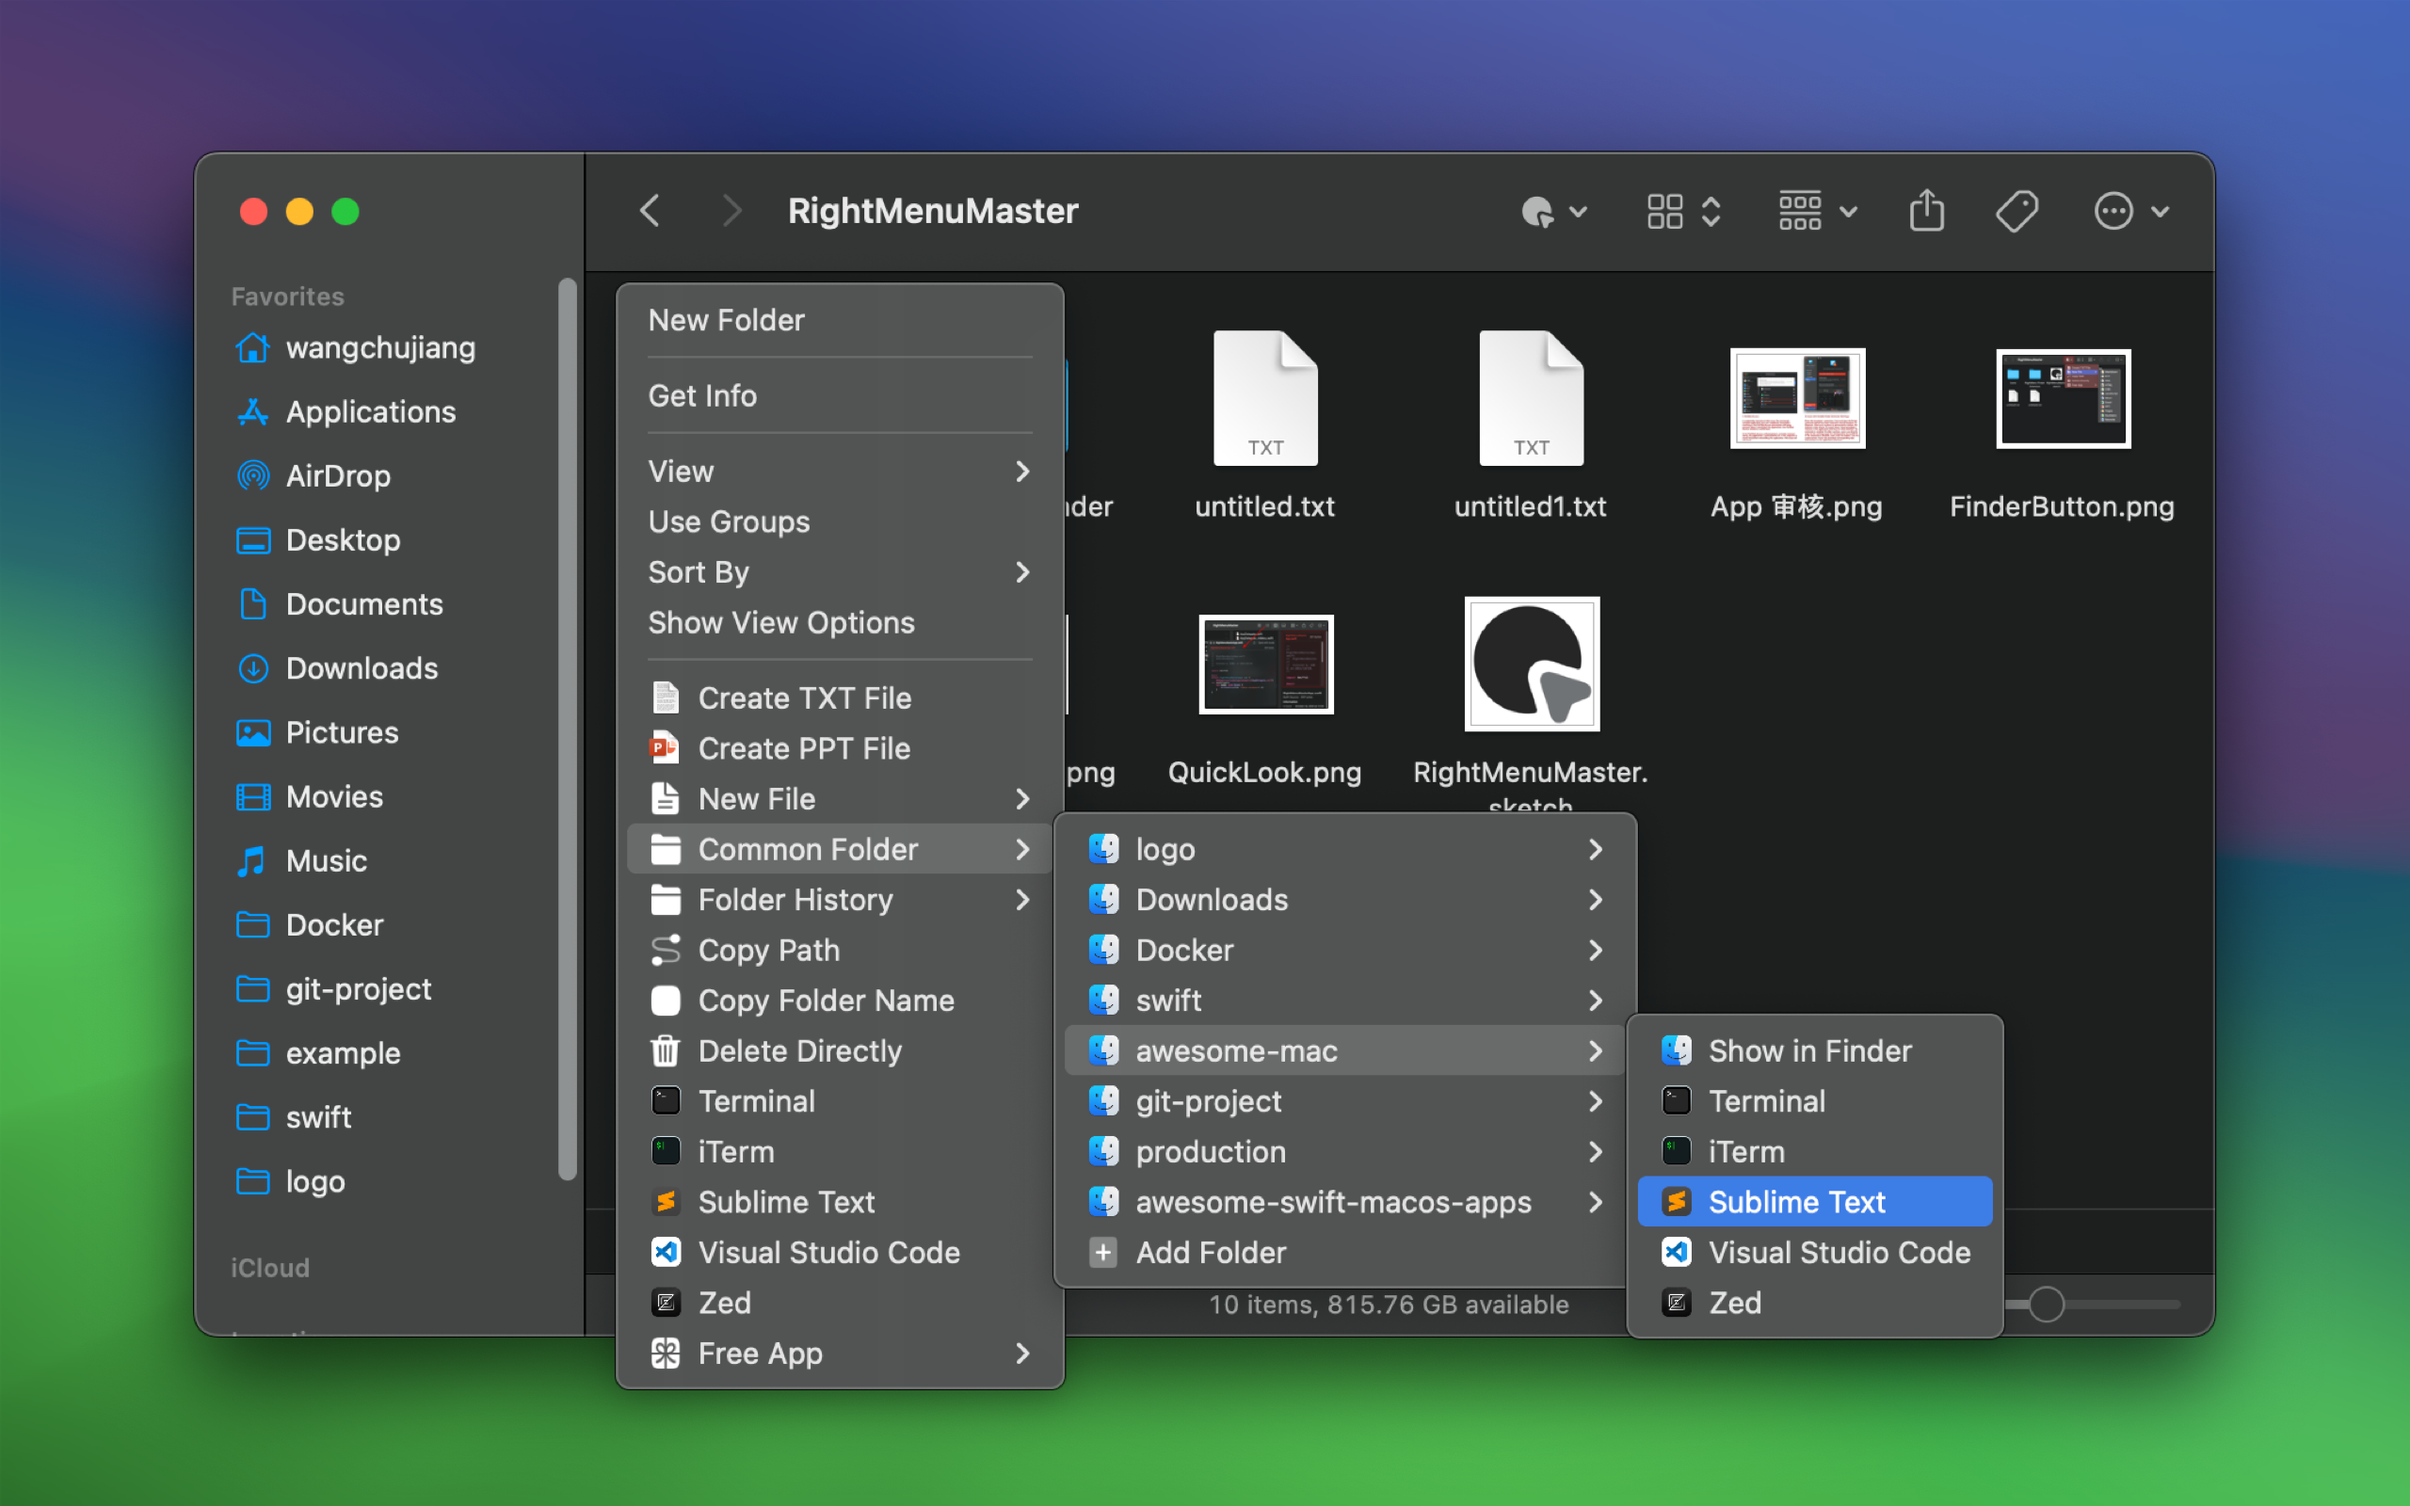
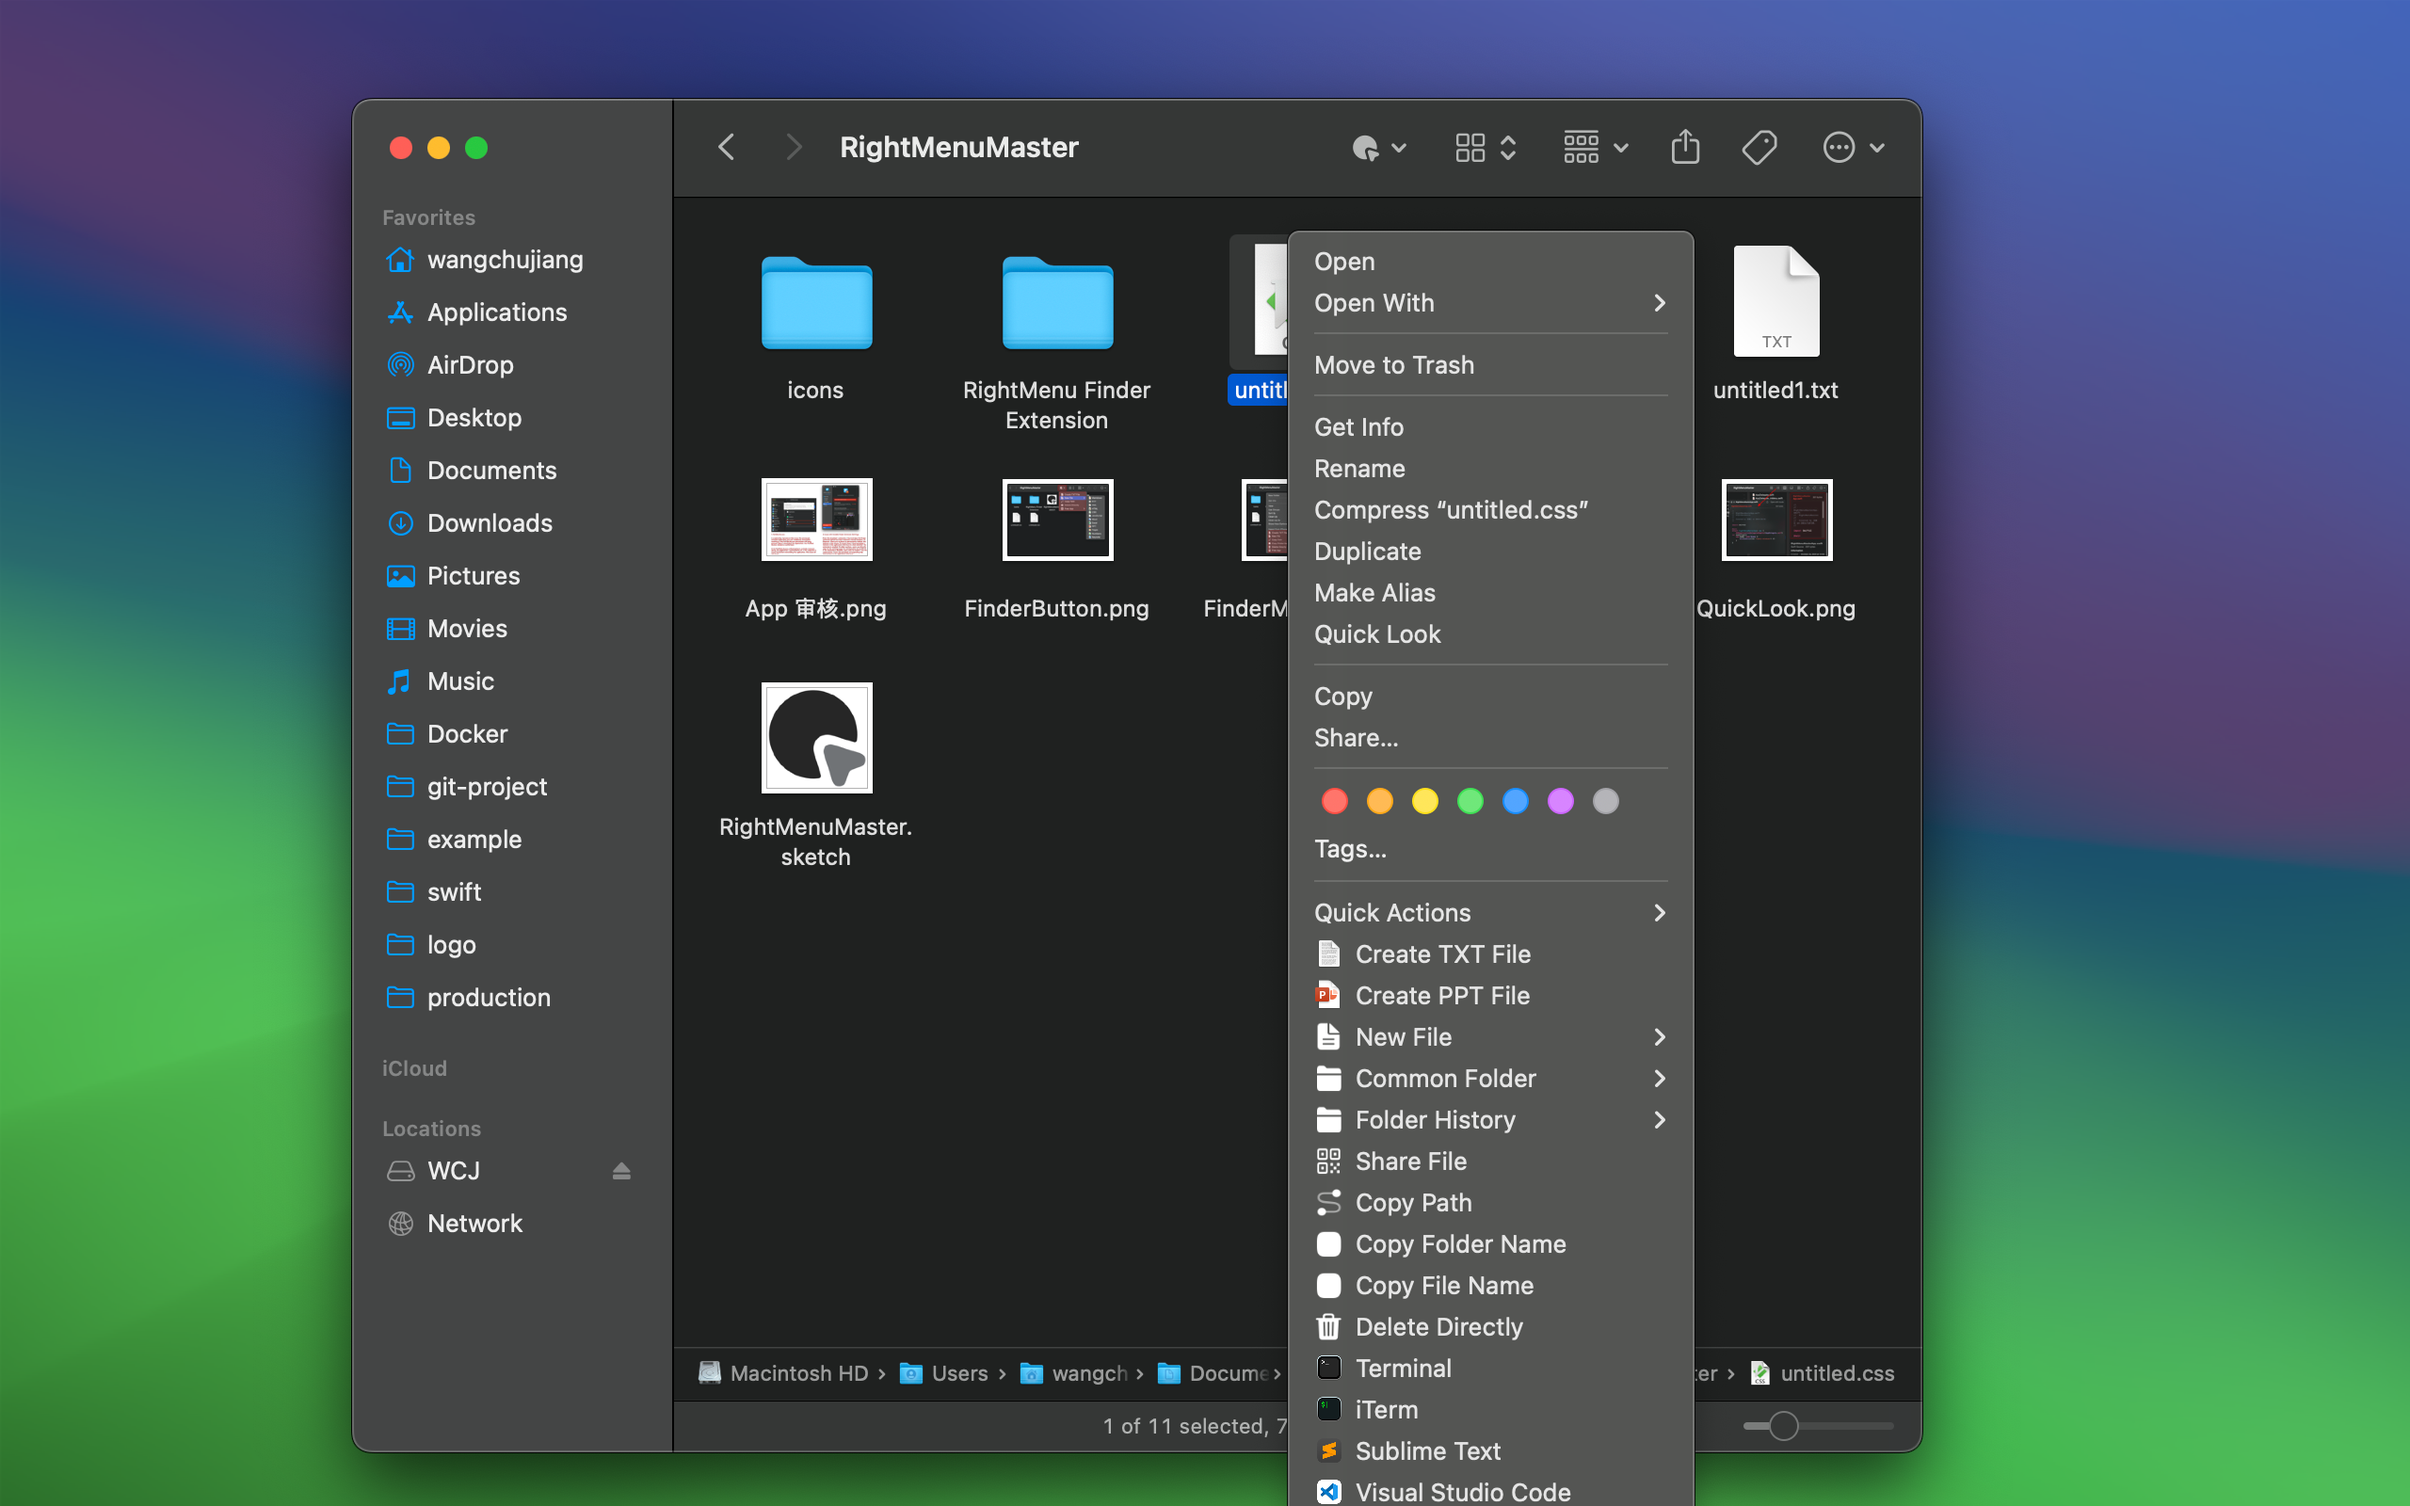
doc: update screenshots. c846dd73f3b71d85d370e547b22ac828379f2784

diff --git a/index.html b/index.html
@@ -82,6 +82,11 @@
           <img src="assets/screenshots-2.png" alt="RightMenu Master Screenshot 2">
         </p>
         <p>A quick preview extension is provided for viewing source text files with syntax highlighting. This extension handles supported file formats via <a href="https://developer.apple.com/library/archive/documentation/FileManagement/Conceptual/understanding_utis/understand_utis_intro/understand_utis_intro.html">Uniform Type Identifiers (UTI)</a>, rather than relying solely on file extensions. The UTI definitions include a list of associated file extensions and MIME types.</p>
+        <p><strong>■ File QR Code Sharing</strong></p>
+        <p>Right-click on a file to generate a local network download link and a QR code. Scan the QR code to download the folder.</p>
+        <p>
+          <img src="assets/screenshots-6.png" alt="RightMenu Master Screenshot 6">
+        </p>
         <p><strong>■ Frequently Used Folders</strong></p>
         <p>Supports custom frequently used folders for quick access to directories or to open a new terminal window directly in a specific folder.</p>
         <p>

diff --git a/index.zh.html b/index.zh.html
@@ -83,6 +83,11 @@
           <img src="assets/screenshots-2.png" alt="RightMenu Master Screenshot 2">
         </p>
         <p>提供了一种快速查看扩展，可用于预览带有语法高亮的源文本文件。该扩展通过<a href="https://developer.apple.com/library/archive/documentation/FileManagement/Conceptual/understanding_utis/understand_utis_intro/understand_utis_intro.html">统一类型标识符 (UTI)</a> 来处理支持的文件格式，而不仅仅依赖于文件扩展名。在 UTI 的定义中包含了与其关联的文件扩展名和 MIME 类型列表。</p>
+        <p><strong>■ 文件二维码分享</strong></p>
+        <p>右键点击文件，可生成局域网下载链接，并同时生成二维码，扫描二维码即可下载该文件夹。</p>
+        <p>
+          <img src="assets/screenshots-6.png" alt="RightMenu Master Screenshot 6">
+        </p>
         <p><strong>■ 常用文件夹</strong></p>
         <p>支持自定义常用文件夹，可快速访问目录或在指定文件夹中直接新建终端窗口。</p>
         <p>
